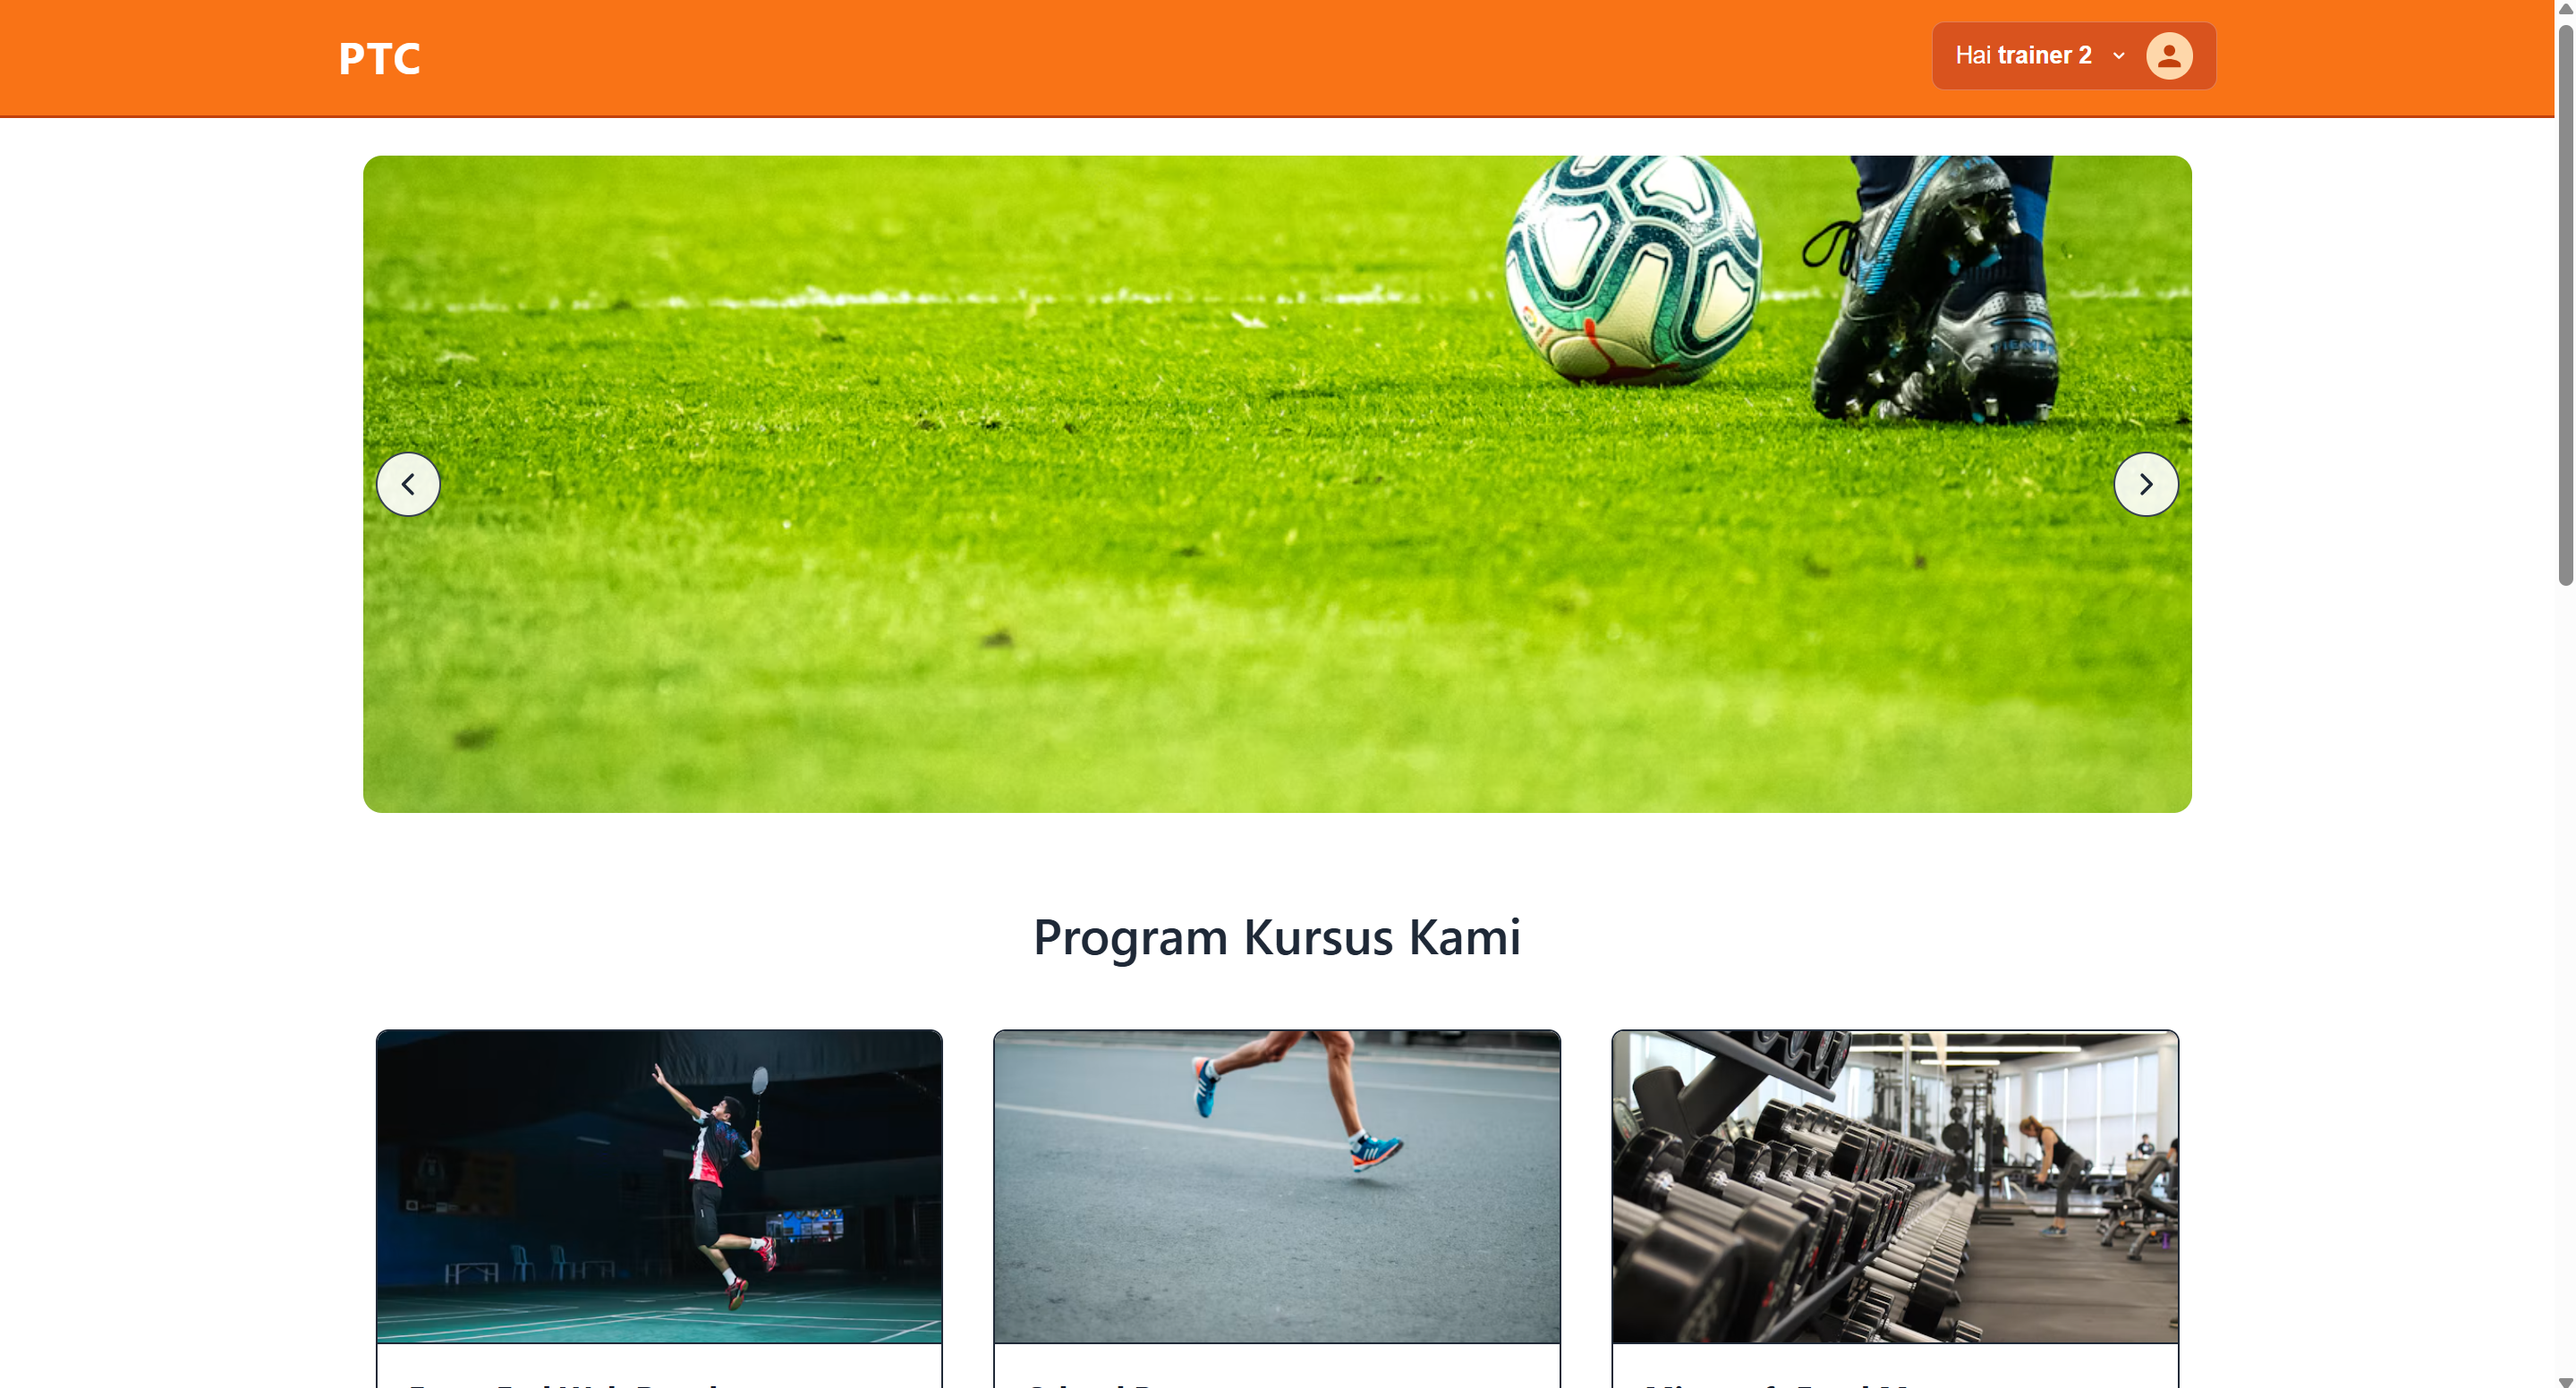
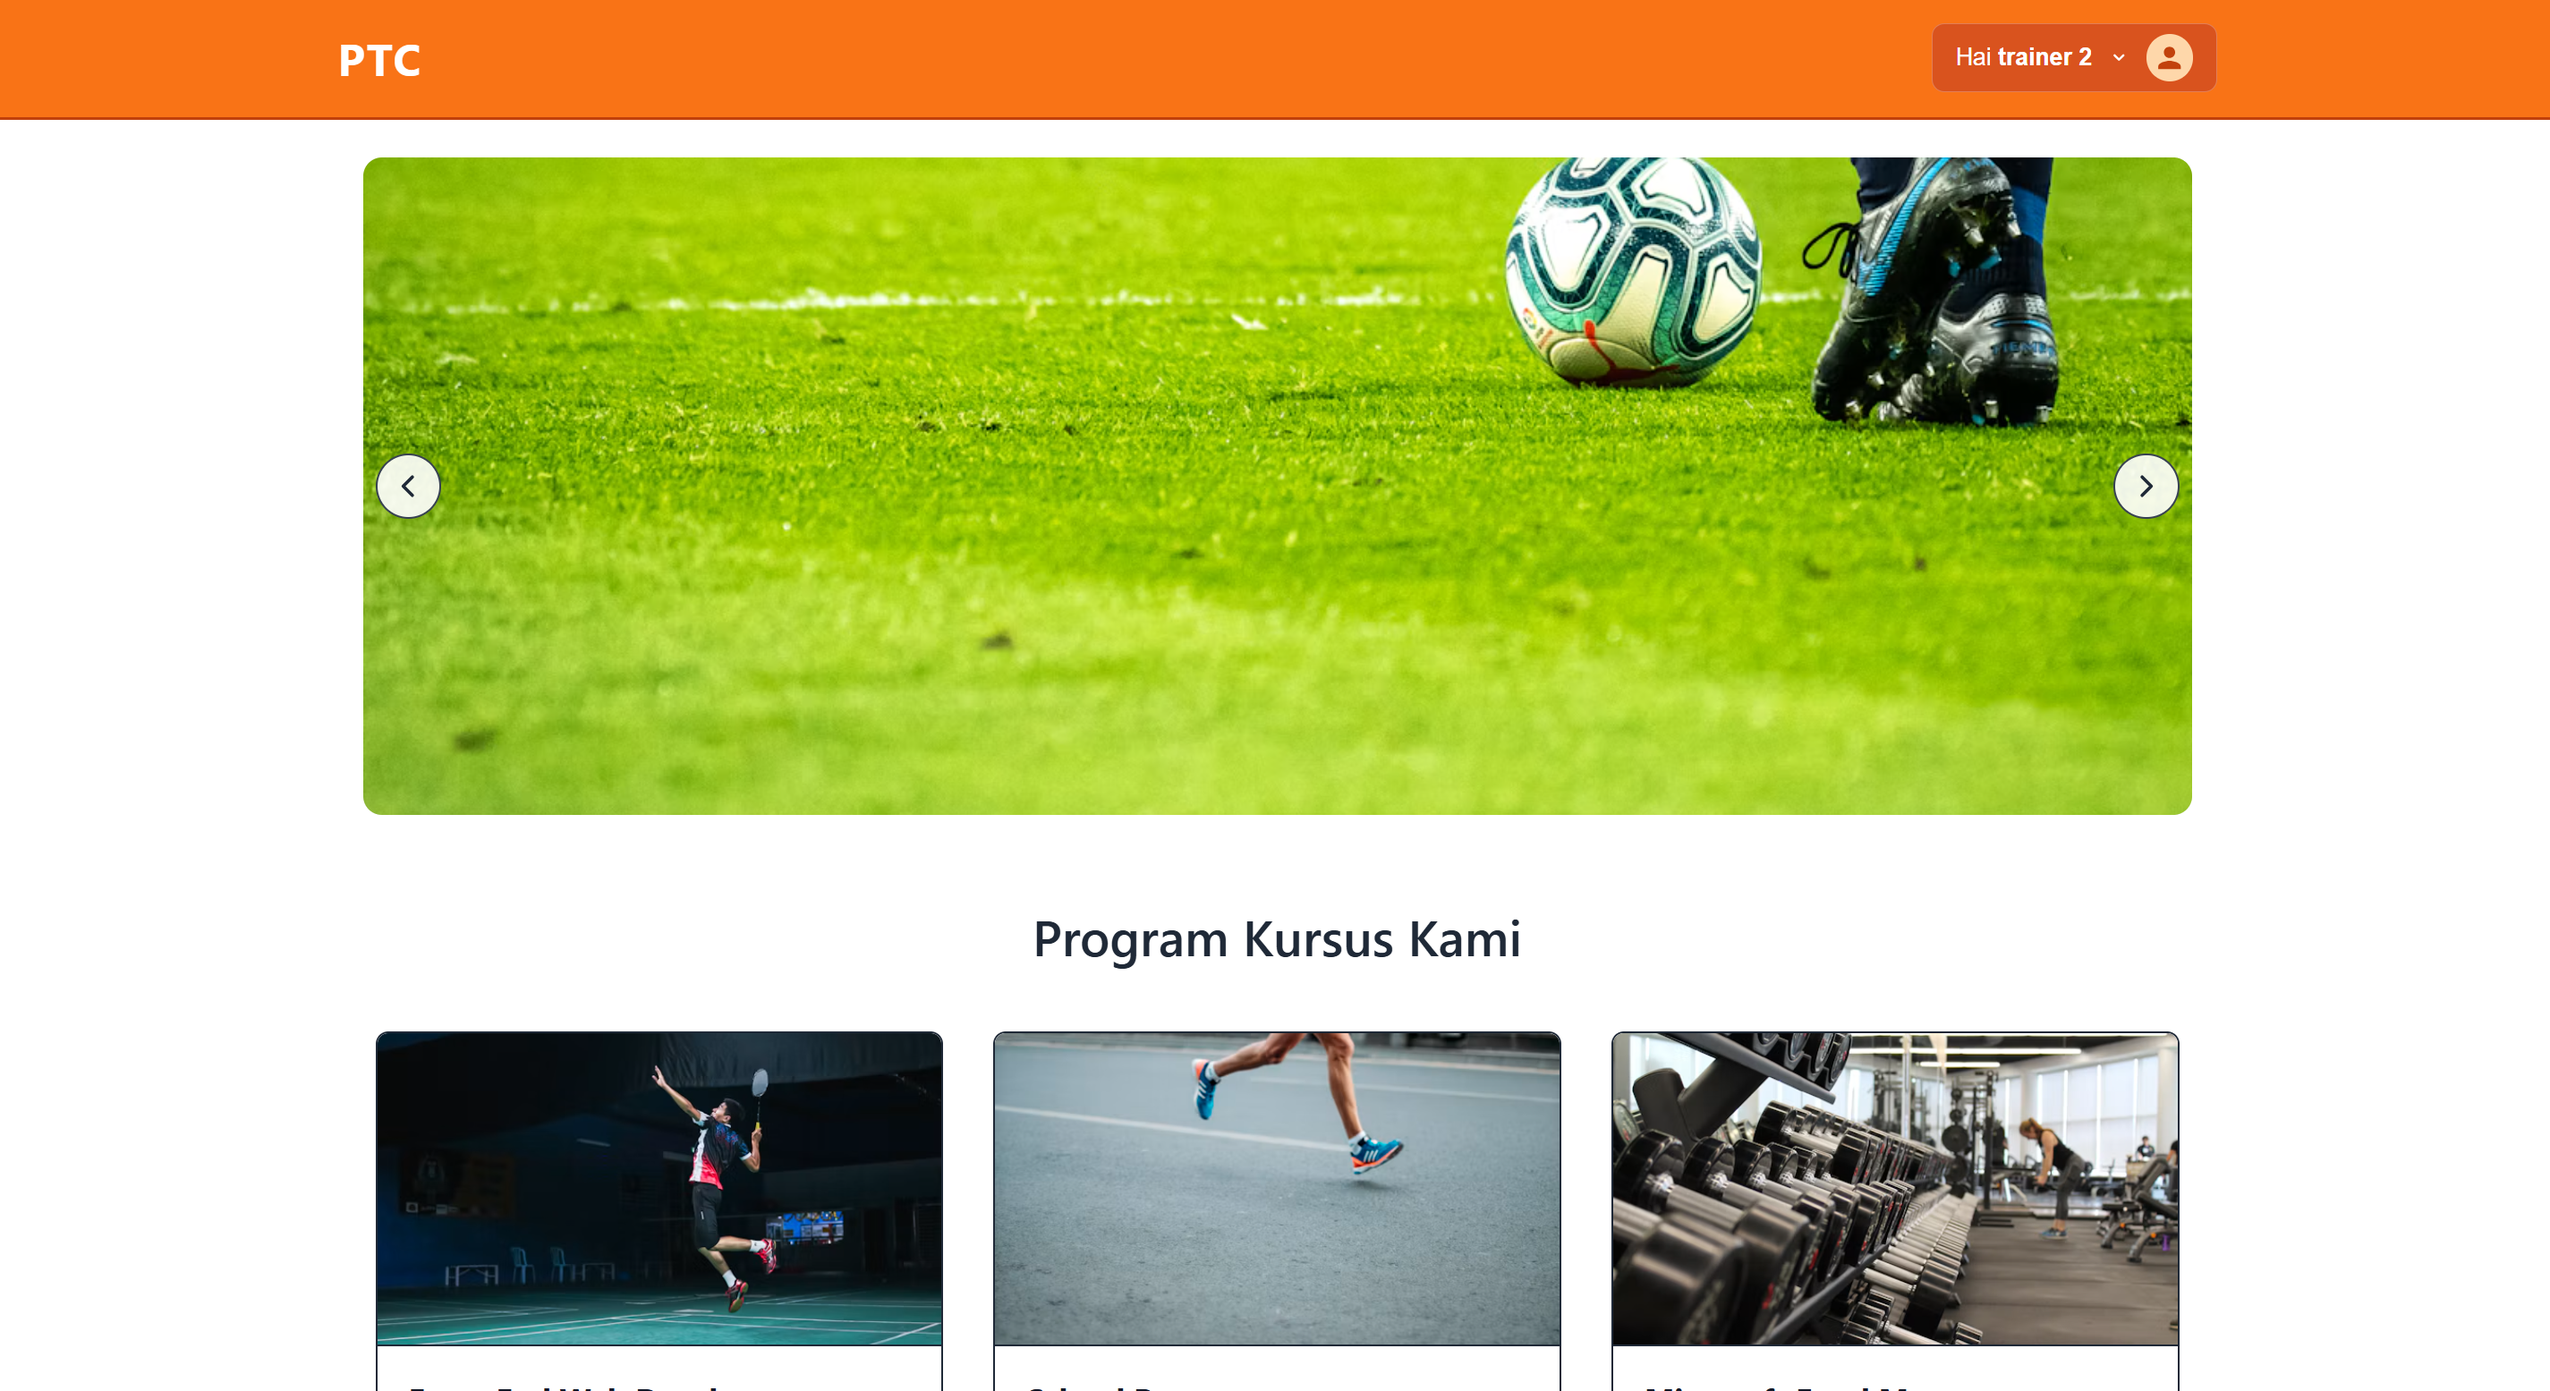
Update

diff --git a/src/pages/Home.jsx b/src/pages/Home.jsx
@@ -1,10 +1,15 @@
 import { useState } from 'react'
 import schoolLogo from '../assets/school.jpg'
 import fotoProfil from '../assets/foto.jpg'
-import ss1 from '../assets/ss.jpg'
+import ss1 from '../assets/ss1.jpg'
 import ss2 from '../assets/ssP.jpg'
 import ss3 from '../assets/ss3.jpg'
 import ss4 from '../assets/ss4.jpg'
+import ss5 from '../assets/github.jpg'
+import ss6 from '../assets/lk21.jpg'
+import ss7 from '../assets/ss7.jpg'
+import ss8 from '../assets/ss8.jpg'
+import ss9 from '../assets/ss9.jpg'
 
 function Home() {
     const [halamanAktif, setHalamanAktif] = useState(1)
@@ -15,10 +20,10 @@ function Home() {
     const dataProject = {
         1: [
             {
-                nama: 'PTC INDONESIA',
+                nama: 'portofolio',
                 deskripsi: 'Deskripsikan / jelaskan website kamu tentang apa',
                 screenshot: ss1,
-                link: 'https://www.ptcindonesia.com',
+                link: 'https://portofolio-xcode.vercel.app/',
             },
             {
                 nama: 'ptc indonesia2',
@@ -27,7 +32,7 @@ function Home() {
                 link: 'https://ptcindonesia2.vercel.app',
             },
             {
-                nama: 'h2iman',
+                nama: 'website film ',
                 deskripsi: 'Deskripsikan / jelaskan website kamu tentang apa',
                 screenshot: ss3,
                 link: 'https://h2iman.vercel.app',
@@ -41,55 +46,38 @@ function Home() {
         ],
         2: [
             {
-                nama: 'Website Project 5',
+                nama: 'github',
                 deskripsi: 'Deskripsikan / jelaskan website kamu tentang apa',
-                screenshot: '',
-                link: '#',
+                screenshot: ss5,
+                link: 'https://github.com/eltriputrarb-bit',
             },
             {
-                nama: 'Website Project 6',
+                nama: 'lk21 film',
                 deskripsi: 'Deskripsikan / jelaskan website kamu tentang apa',
-                screenshot: '',
-                link: '#',
+                screenshot: ss6,
+                link: 'https://tv12.lk21official.cc/',
             },
             {
-                nama: 'Website Project 7',
+                nama: 'eltriputrarb',
                 deskripsi: 'Deskripsikan / jelaskan website kamu tentang apa',
-                screenshot: '',
-                link: '#',
+                screenshot: ss7,
+                link: 'https://eltriputrarb.vercel.app/',
             },
             {
-                nama: 'Website Project 8',
+                nama: 'eltriputra2',
                 deskripsi: 'Deskripsikan / jelaskan website kamu tentang apa',
-                screenshot: '',
-                link: '#',
+                screenshot: ss8,
+                link: 'https://eltriputra4.vercel.app/',
             },
         ],
         3: [
             {
-                nama: 'Website Project 9',
+                nama: 'sudut',
                 deskripsi: 'Deskripsikan / jelaskan website kamu tentang apa',
-                screenshot: '',
-                link: '#',
+                screenshot: ss9,
+                link: 'https://ptcindonesia.vercel.app/ ',
             },
-            {
-                nama: 'Website Project 10',
-                deskripsi: 'Deskripsikan / jelaskan website kamu tentang apa',
-                screenshot: '',
-                link: '#',
-            },
-            {
-                nama: 'Website Project 11',
-                deskripsi: 'Deskripsikan / jelaskan website kamu tentang apa',
-                screenshot: '',
-                link: '#',
-            },
-            {
-                nama: 'Website Project 12',
-                deskripsi: 'Deskripsikan / jelaskan website kamu tentang apa',
-                screenshot: '',
-                link: '#',
-            },
+
         ],
     }
 
@@ -295,8 +283,8 @@ function Home() {
                             key={nomor}
                             onClick={() => setHalamanAktif(nomor)}
                             className={`w-7 h-7 sm:w-8 sm:h-8 rounded-full border font-semibold text-[11px] sm:text-xs flex items-center justify-center transition cursor-pointer ${halamanAktif === nomor
-                                    ? 'bg-[#071B2B] text-white border-[#071B2B]'
-                                    : 'bg-[#F3F6F4] text-[#071B2B] border-[#071B2B]/45 hover:border-[#071B2B]'
+                                ? 'bg-[#071B2B] text-white border-[#071B2B]'
+                                : 'bg-[#F3F6F4] text-[#071B2B] border-[#071B2B]/45 hover:border-[#071B2B]'
                                 }`}
                         >
                             {nomor}

diff --git a/src/components/Header.jsx b/src/components/Header.jsx
@@ -5,7 +5,7 @@ function Header() {
                 href="/#profil"
                 className="text-sm sm:text-base md:text-lg font-bold tracking-tight"
             >
-                PTCINDONESIA
+                ELTRI PUTRA
             </a>
 
             <div className="flex flex-wrap items-center gap-2.5 sm:gap-4 md:gap-6 text-[11px] sm:text-xs md:text-sm">
